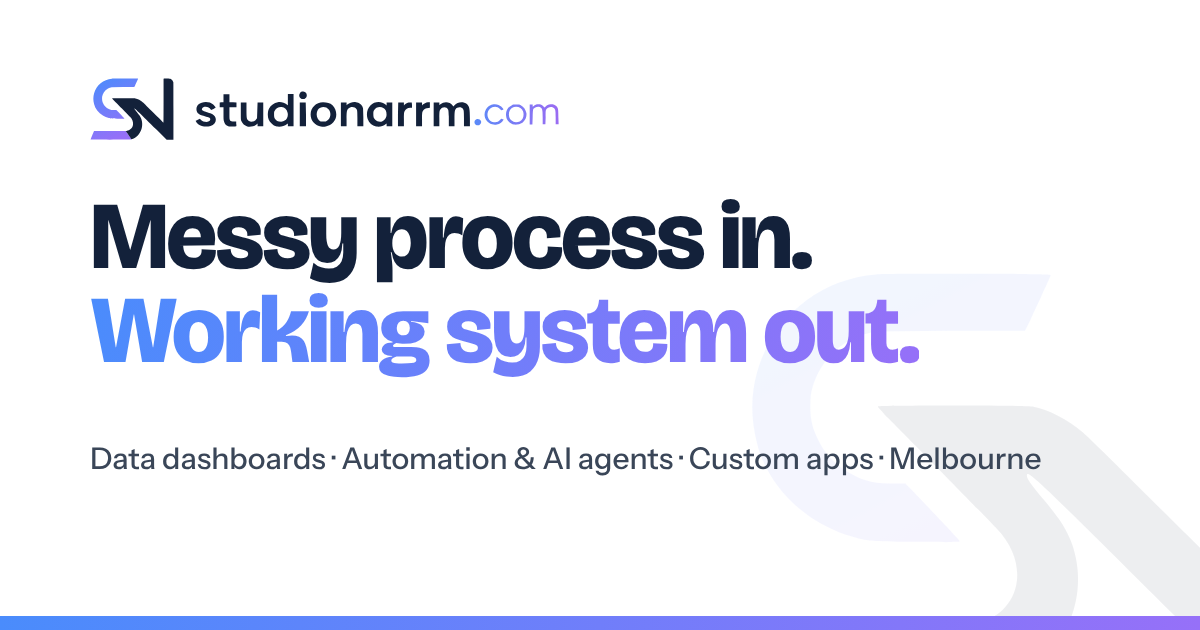
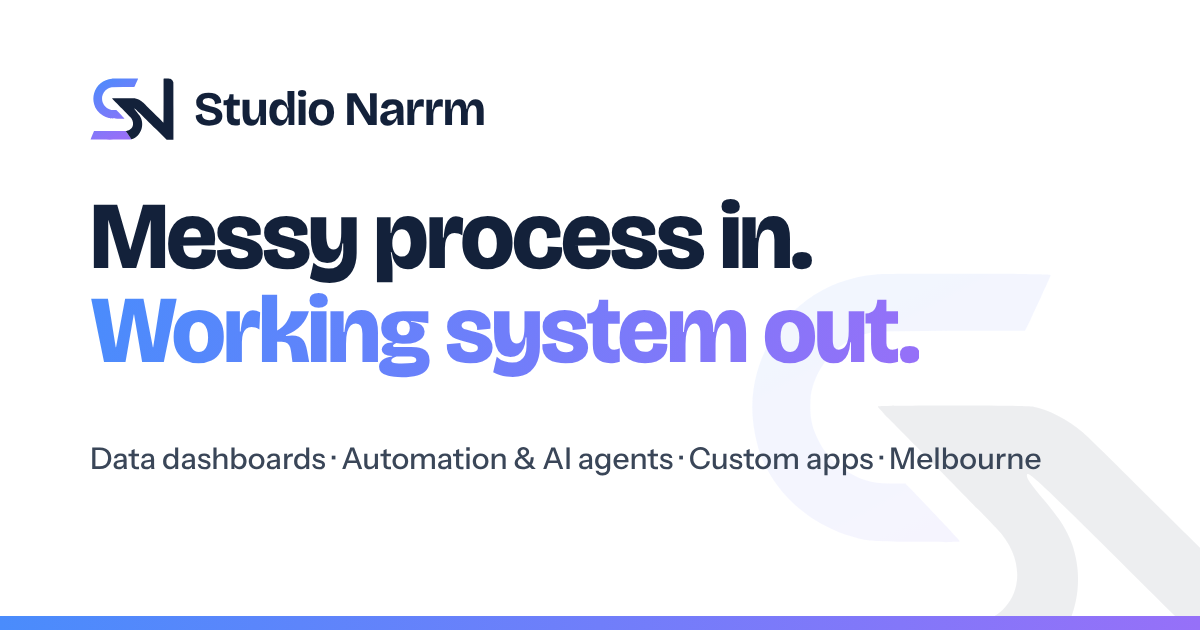
Header and footer: SN mark with "Studio Narrm" as text
Replaces the traced studionarrm.com wordmark with the brand name as live
text in the display font; share image matches.

Claude-Session: https://claude.ai/code/session_01DFAmSZSdDy1fAEzAKNZZZf

Changed region(s): [[0.1542, 0.1508, 0.4625, 0.2111]]

diff --git a/src/styles/global.css b/src/styles/global.css
@@ -99,7 +99,7 @@ strong { color: var(--text); font-weight: 650; }
 .logo { display: inline-flex; align-items: center; gap: 0.55rem; }
 .logo svg { display: block; height: auto; }
 .logo-mark { width: 2.35rem; }
-.logo-word { width: 10rem; margin-top: 0.12rem; }
+.logo-word { font-family: var(--f-display); font-weight: 700; font-size: 1.3rem; letter-spacing: -0.02em; line-height: 1; padding-top: 0.12em; white-space: nowrap; }
 .site-header nav { display: flex; gap: 1.4rem; align-items: center; flex-wrap: wrap; }
 .site-header nav a { text-decoration: none; color: var(--muted); font-weight: 550; font-size: 0.95rem; }
 .site-header nav a:hover, .site-header nav a[aria-current="page"] { color: var(--text); }
